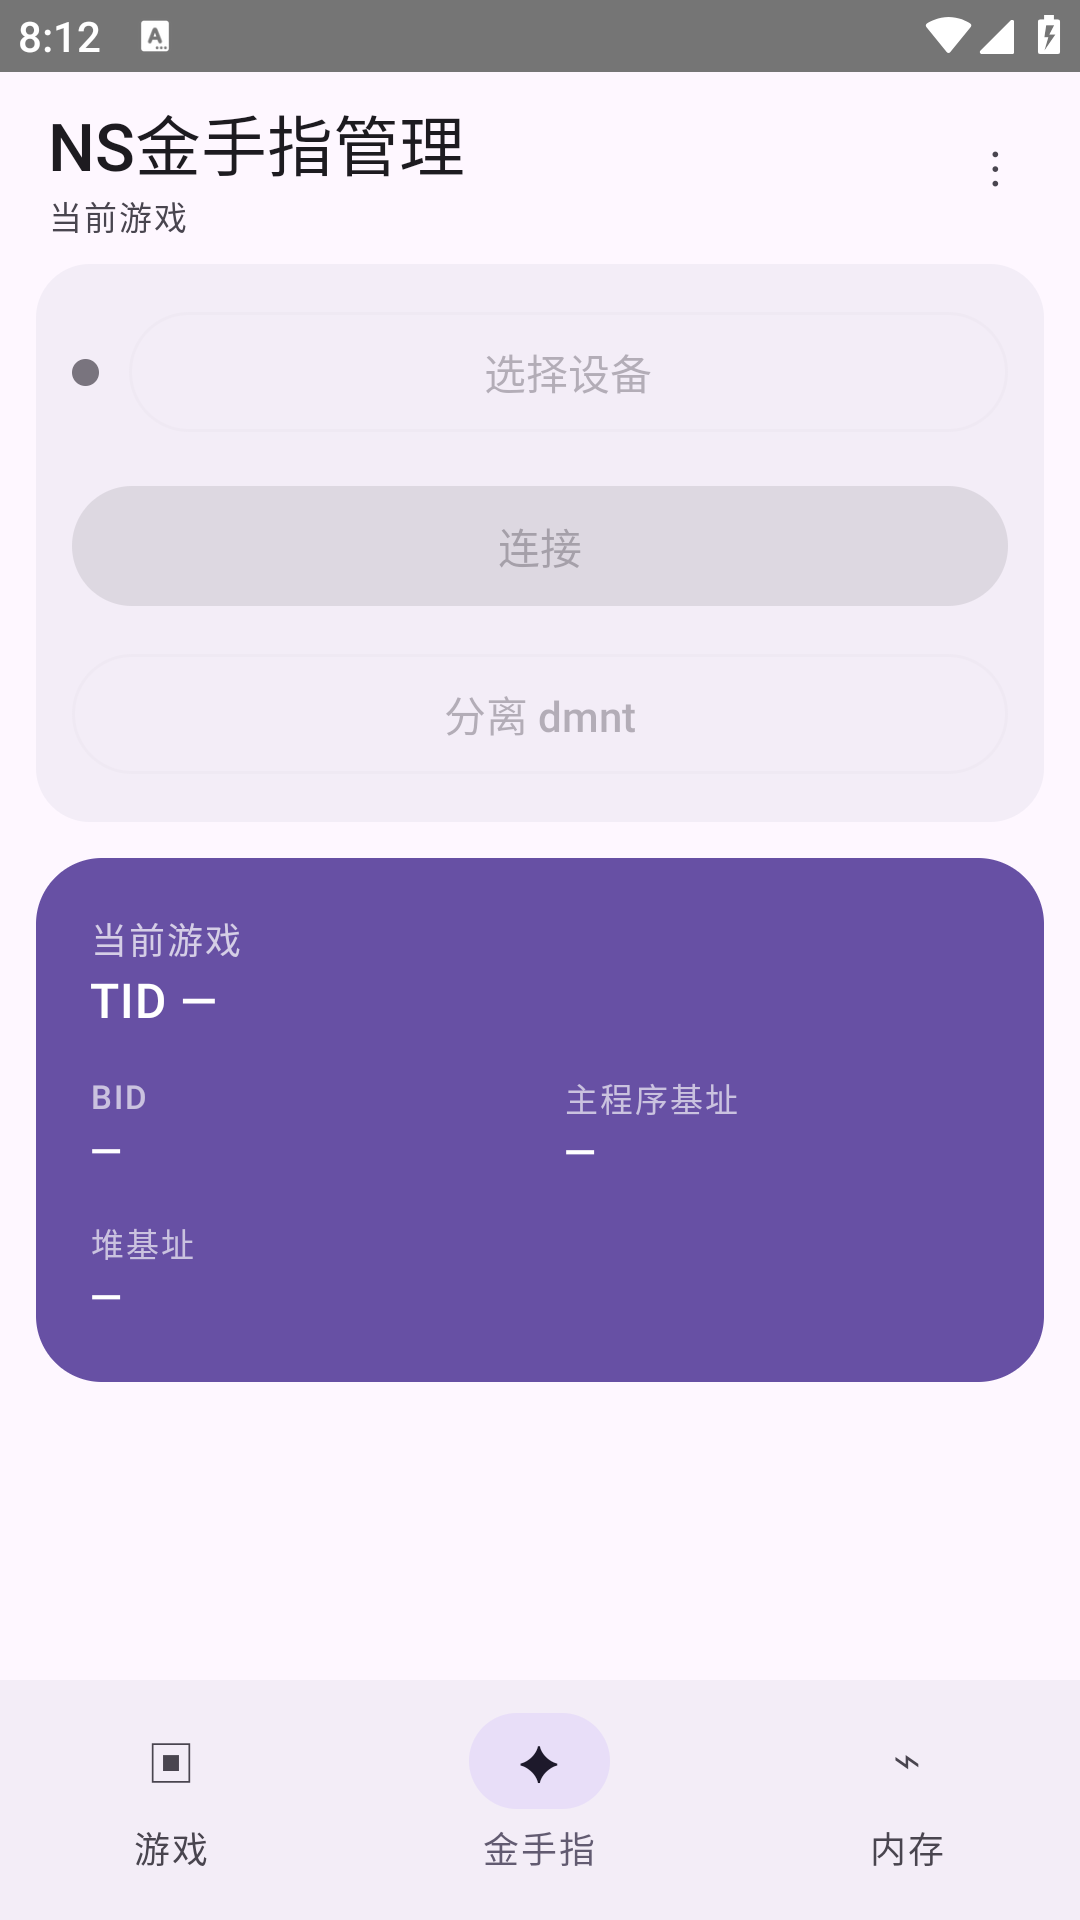
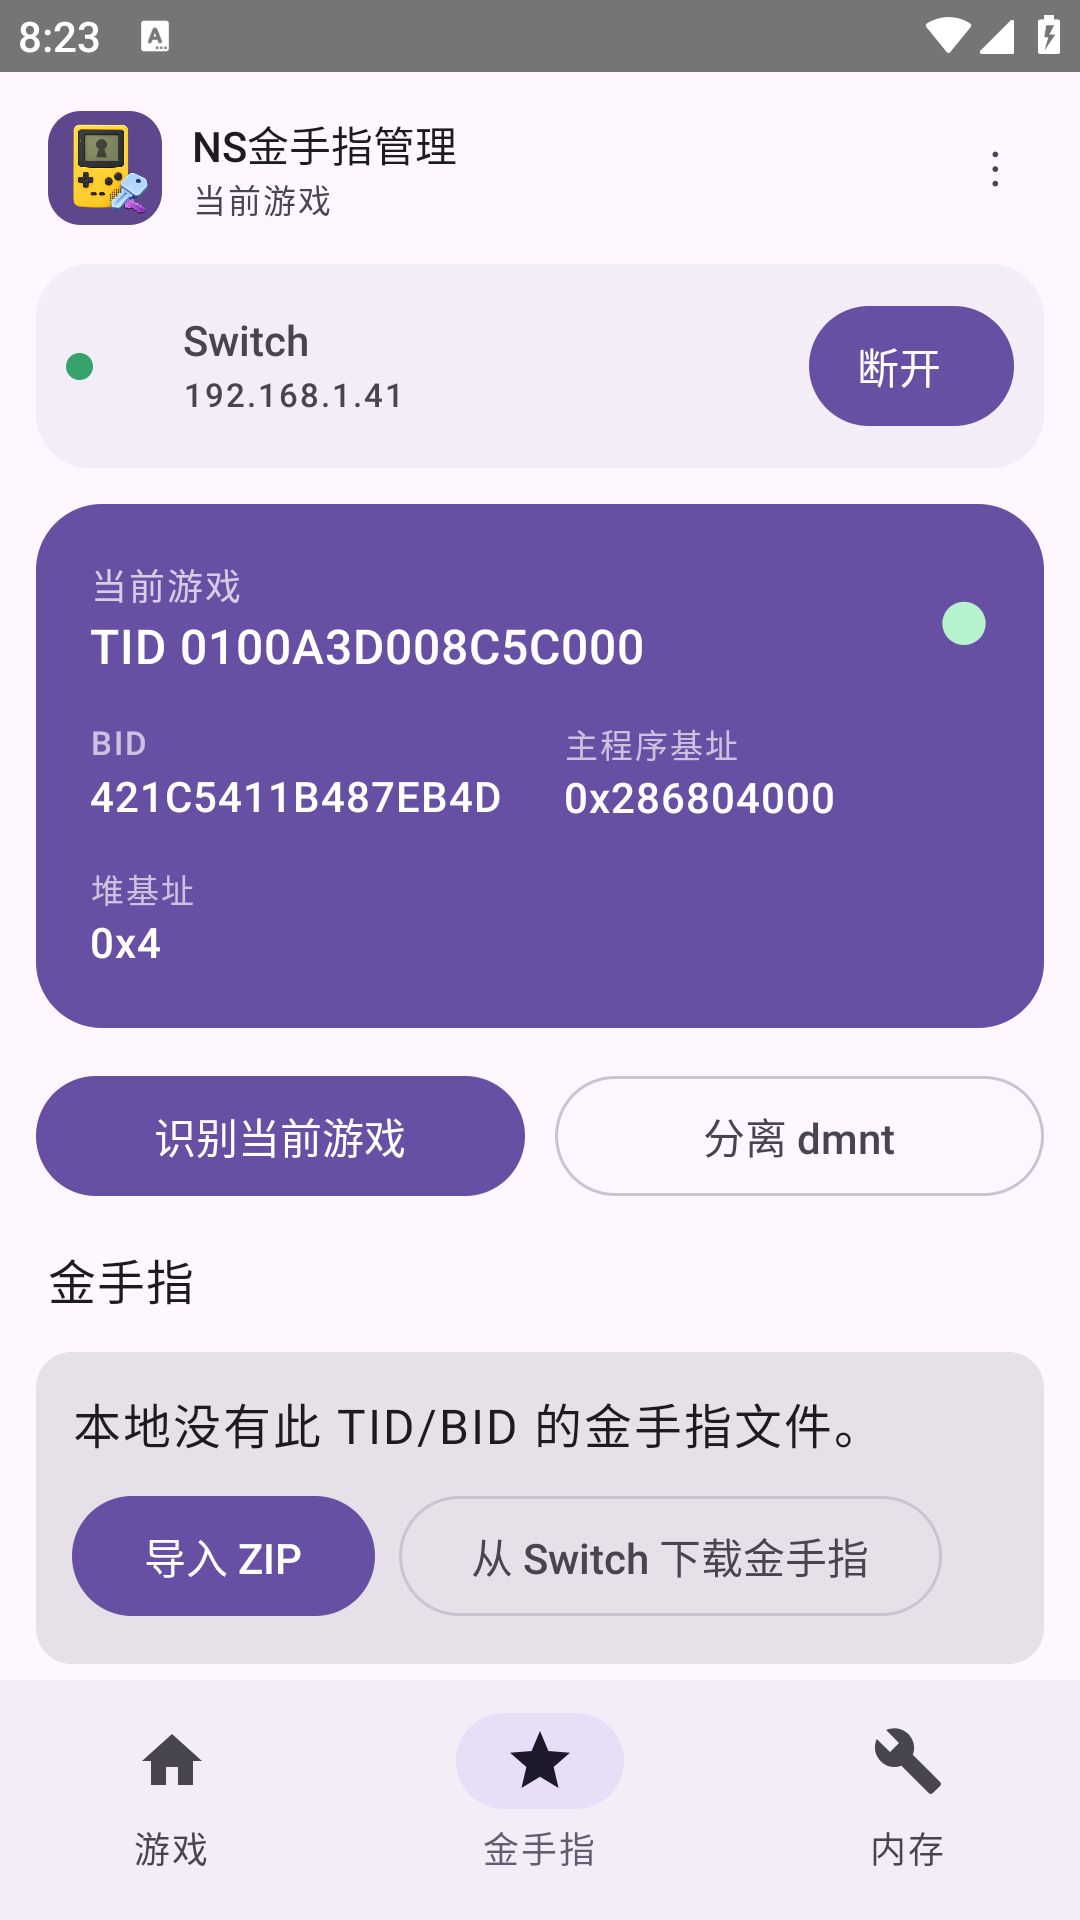
fix: align app shell with approved mockup

diff --git a/app/src/main/java/com/nscheatmanager/app/ui/game/GameScreen.kt b/app/src/main/java/com/nscheatmanager/app/ui/game/GameScreen.kt
@@ -2,8 +2,8 @@ package com.nscheatmanager.app.ui.game
 
 import androidx.compose.foundation.layout.Arrangement
 import androidx.compose.foundation.background
+import androidx.compose.foundation.Image
 import androidx.compose.foundation.layout.Box
-import androidx.compose.foundation.layout.BoxWithConstraints
 import androidx.compose.foundation.layout.Column
 import androidx.compose.foundation.layout.Row
 import androidx.compose.foundation.layout.Spacer
@@ -18,7 +18,9 @@ import androidx.compose.foundation.verticalScroll
 import androidx.compose.foundation.selection.toggleable
 import androidx.compose.foundation.shape.CircleShape
 import androidx.compose.foundation.shape.RoundedCornerShape
+import androidx.compose.ui.draw.clip
 import androidx.compose.material3.Button
+import androidx.compose.material3.ButtonDefaults
 import androidx.compose.material3.Card
 import androidx.compose.material3.CardDefaults
 import androidx.compose.material3.Checkbox
@@ -44,6 +46,7 @@ import androidx.compose.ui.Modifier
 import androidx.compose.ui.platform.LocalConfiguration
 import androidx.compose.ui.platform.testTag
 import androidx.compose.ui.res.stringResource
+import androidx.compose.ui.res.painterResource
 import androidx.compose.ui.semantics.contentDescription
 import androidx.compose.ui.semantics.Role
 import androidx.compose.ui.semantics.clearAndSetSemantics
@@ -97,17 +100,32 @@ fun GameScreen(
         topBar = {
             TopAppBar(
                 title = {
-                    Column {
-                        Text(
-                            stringResource(R.string.app_name),
-                            style = MaterialTheme.typography.titleMedium,
-                            fontWeight = FontWeight.Medium,
-                        )
-                        Text(
-                            stringResource(R.string.current_game),
-                            style = MaterialTheme.typography.labelSmall,
-                            color = MaterialTheme.colorScheme.onSurfaceVariant,
-                        )
+                    Row(verticalAlignment = Alignment.CenterVertically) {
+                        Box(
+                            Modifier
+                                .size(38.dp)
+                                .clip(RoundedCornerShape(11.dp))
+                                .background(Color(0xFF5E478D)),
+                        ) {
+                            Image(
+                                painter = painterResource(R.mipmap.ic_launcher_foreground),
+                                contentDescription = null,
+                                modifier = Modifier.fillMaxSize(),
+                            )
+                        }
+                        Spacer(Modifier.width(10.dp))
+                        Column {
+                            Text(
+                                stringResource(R.string.app_name),
+                                style = MaterialTheme.typography.titleSmall,
+                                fontWeight = FontWeight.Medium,
+                            )
+                            Text(
+                                stringResource(R.string.current_game),
+                                style = MaterialTheme.typography.labelSmall,
+                                color = MaterialTheme.colorScheme.onSurfaceVariant,
+                            )
+                        }
                     }
                 },
                 actions = {
@@ -160,6 +178,7 @@ fun GameScreen(
                 CheatEditorScreen(editorState, editorActions)
             } else {
                 GameIdentityCard(state)
+                GameActionRow(state, actions)
                 CheatGroups(state, actions)
             }
             Spacer(Modifier.height(8.dp))
@@ -209,8 +228,10 @@ private fun DeviceControls(state: GameUiState, actions: GameScreenActions) {
         shape = RoundedCornerShape(18.dp),
         colors = CardDefaults.cardColors(containerColor = MaterialTheme.colorScheme.surfaceContainer),
     ) {
-        Column(Modifier.padding(12.dp), verticalArrangement = Arrangement.spacedBy(10.dp)) {
-            Row(verticalAlignment = Alignment.CenterVertically) {
+        Row(
+            Modifier.padding(horizontal = 10.dp, vertical = 8.dp),
+            verticalAlignment = Alignment.CenterVertically,
+        ) {
                 Box(
                     Modifier.size(9.dp).background(
                         if (state.connection == ConnectionState.Ready) Color(0xFF35A36B)
@@ -218,22 +239,10 @@ private fun DeviceControls(state: GameUiState, actions: GameScreenActions) {
                         CircleShape,
                     ),
                 )
-                Spacer(Modifier.width(10.dp))
-                DeviceSelector(state.devices, state.selectedDeviceId, actions.selectDevice, Modifier.weight(1f))
-            }
-            BoxWithConstraints(Modifier.fillMaxWidth()) {
-                if (maxWidth < 280.dp) {
-                    Column(verticalArrangement = Arrangement.spacedBy(8.dp)) {
-                        ConnectionButton(state, actions, Modifier.fillMaxWidth())
-                        DetachButton(state, actions, Modifier.fillMaxWidth())
-                    }
-                } else {
-                    Row(Modifier.fillMaxWidth(), horizontalArrangement = Arrangement.spacedBy(8.dp)) {
-                        ConnectionButton(state, actions, Modifier.weight(1f))
-                        DetachButton(state, actions, Modifier.weight(1f))
-                    }
-                }
-            }
+            Spacer(Modifier.width(6.dp))
+            DeviceSelector(state.devices, state.selectedDeviceId, actions.selectDevice, Modifier.weight(1f))
+            Spacer(Modifier.width(6.dp))
+            ConnectionButton(state, actions)
         }
     }
 }
@@ -252,8 +261,22 @@ private fun DeviceSelector(
             modifier = Modifier.fillMaxWidth().testTag("device-selector"),
             onClick = { expanded = true },
             enabled = devices.isNotEmpty(),
+            border = null,
+            contentPadding = ButtonDefaults.ContentPadding,
         ) {
-            Text(selected?.let { "${it.name} · ${it.host}" } ?: stringResource(R.string.select_device))
+            Column(Modifier.fillMaxWidth()) {
+                Text(
+                    selected?.name ?: stringResource(R.string.select_device),
+                    style = MaterialTheme.typography.labelLarge,
+                )
+                selected?.let {
+                    Text(
+                        it.host,
+                        style = MaterialTheme.typography.labelSmall,
+                        color = MaterialTheme.colorScheme.onSurfaceVariant,
+                    )
+                }
+            }
         }
         DropdownMenu(expanded = expanded, onDismissRequest = { expanded = false }) {
             devices.forEach { device ->
@@ -272,6 +295,7 @@ private fun ConnectionButton(state: GameUiState, actions: GameScreenActions, mod
         modifier = modifier.testTag("connect-toggle"),
         onClick = actions.connectionToggle,
         enabled = state.selectedDeviceId != null && !state.busy,
+        contentPadding = ButtonDefaults.ButtonWithIconContentPadding,
     ) {
         Text(
             stringResource(
@@ -282,6 +306,18 @@ private fun ConnectionButton(state: GameUiState, actions: GameScreenActions, mod
                 },
             ),
         )
+    }
+}
+
+@Composable
+private fun GameActionRow(state: GameUiState, actions: GameScreenActions) {
+    Row(Modifier.fillMaxWidth(), horizontalArrangement = Arrangement.spacedBy(10.dp)) {
+        Button(
+            modifier = Modifier.weight(1f).testTag("recognize-game-primary"),
+            onClick = actions.recognize,
+            enabled = state.connection == ConnectionState.Ready && !state.busy,
+        ) { Text(stringResource(R.string.recognize_game)) }
+        DetachButton(state, actions, Modifier.weight(1f))
     }
 }
 
@@ -325,13 +361,6 @@ private fun GameIdentityCard(state: GameUiState) {
                 IdentityBlock(stringResource(R.string.main_base), state.mainBase, Modifier.weight(1f))
             }
             IdentityBlock(stringResource(R.string.heap_base), state.heapBase)
-            state.mirrorPath?.let {
-                Text(
-                    it,
-                    style = MaterialTheme.typography.labelSmall,
-                    color = MaterialTheme.colorScheme.onPrimary.copy(alpha = 0.68f),
-                )
-            }
         }
     }
 }
@@ -350,6 +379,24 @@ private fun IdentityBlock(label: String, value: String?, modifier: Modifier = Mo
 
 @Composable
 private fun CheatGroups(state: GameUiState, actions: GameScreenActions) {
+    Row(
+        Modifier.fillMaxWidth().padding(horizontal = 4.dp),
+        horizontalArrangement = Arrangement.SpaceBetween,
+        verticalAlignment = Alignment.CenterVertically,
+    ) {
+        Text(
+            stringResource(R.string.nav_cheats),
+            style = MaterialTheme.typography.titleMedium,
+            fontWeight = FontWeight.Medium,
+        )
+        if (!state.missingMirror) {
+            Text(
+                stringResource(R.string.available_cheats_count, state.groups.size),
+                style = MaterialTheme.typography.labelMedium,
+                color = MaterialTheme.colorScheme.onSurfaceVariant,
+            )
+        }
+    }
     if (state.missingMirror) {
         Card(Modifier.fillMaxWidth().testTag("missing-cheat-file")) {
             Column(Modifier.padding(12.dp), verticalArrangement = Arrangement.spacedBy(8.dp)) {

diff --git a/app/src/main/java/com/nscheatmanager/app/ui/NSCheatManagerApp.kt b/app/src/main/java/com/nscheatmanager/app/ui/NSCheatManagerApp.kt
@@ -15,6 +15,11 @@ import androidx.compose.material3.SnackbarHost
 import androidx.compose.material3.SnackbarHostState
 import androidx.compose.material3.Text
 import androidx.compose.material3.TextButton
+import androidx.compose.material.icons.Icons
+import androidx.compose.material.icons.filled.Build
+import androidx.compose.material.icons.filled.Home
+import androidx.compose.material.icons.filled.Star
+import androidx.compose.material3.Icon
 import androidx.compose.runtime.Composable
 import androidx.compose.runtime.LaunchedEffect
 import androidx.compose.runtime.getValue
@@ -26,6 +31,7 @@ import androidx.compose.ui.platform.LocalContext
 import androidx.compose.ui.platform.LocalResources
 import androidx.compose.ui.platform.testTag
 import androidx.compose.ui.res.stringResource
+import androidx.compose.ui.graphics.vector.ImageVector
 import androidx.navigation.compose.NavHost
 import androidx.navigation.compose.composable
 import androidx.navigation.compose.currentBackStackEntryAsState
@@ -101,12 +107,12 @@ interface GameExternalActions {
     data object Platform : GameExternalActions
 }
 
-private data class MainDestination(val route: String, val label: Int, val tag: String, val glyph: String)
+private data class MainDestination(val route: String, val label: Int, val tag: String, val icon: ImageVector)
 
 private val mainDestinations = listOf(
-    MainDestination("game", R.string.nav_game, "nav-game", "▣"),
-    MainDestination("cheats", R.string.nav_cheats, "nav-cheats", "✦"),
-    MainDestination("memory", R.string.nav_memory, "nav-memory", "⌁"),
+    MainDestination("game", R.string.nav_game, "nav-game", Icons.Filled.Home),
+    MainDestination("cheats", R.string.nav_cheats, "nav-cheats", Icons.Filled.Star),
+    MainDestination("memory", R.string.nav_memory, "nav-memory", Icons.Filled.Build),
 )
 
 @Composable
@@ -210,7 +216,7 @@ fun NSCheatManagerApp(
                         modifier = Modifier.testTag(destination.tag),
                         selected = route == destination.route,
                         onClick = { requestNavigation(destination.route) },
-                        icon = { Text(destination.glyph) },
+                        icon = { Icon(destination.icon, contentDescription = null) },
                         label = { Text(stringResource(destination.label)) },
                     )
                 }

diff --git a/app/src/androidTest/java/com/nscheatmanager/app/ui/FullFlowTest.kt b/app/src/androidTest/java/com/nscheatmanager/app/ui/FullFlowTest.kt
@@ -184,7 +184,7 @@ class FullFlowTest {
         compose.runOnIdle { editorOpen.value = false }
         compose.onNodeWithTag("nav-game").performClick(); compose.onNodeWithTag("game-screen").assertIsDisplayed(); assertInside320("device-selector"); assertInside320("overflow-menu")
         compose.onNodeWithTag("nav-memory").performClick(); compose.onNodeWithTag("memory-screen").assertIsDisplayed(); assertInside320("memory-action-row")
-        compose.onNodeWithTag("nav-cheats").performClick(); compose.onNodeWithTag("cheats-screen").assertIsDisplayed(); compose.onNodeWithTag("cheat-Accessible cheat").assertIsDisplayed(); assertInside320("cheat-Accessible cheat")
+        compose.onNodeWithTag("nav-cheats").performClick(); compose.onNodeWithTag("cheats-screen").assertIsDisplayed(); compose.onNodeWithTag("cheat-Accessible cheat").performScrollTo().assertIsDisplayed(); assertInside320("cheat-Accessible cheat")
         compose.onNodeWithTag("overflow-menu").performClick(); compose.onNodeWithTag("menu-settings").performClick()
         compose.onNodeWithTag("settings-content").assertIsDisplayed()
         compose.onNodeWithTag("language-actions").performScrollTo(); assertInside320("language-actions")
